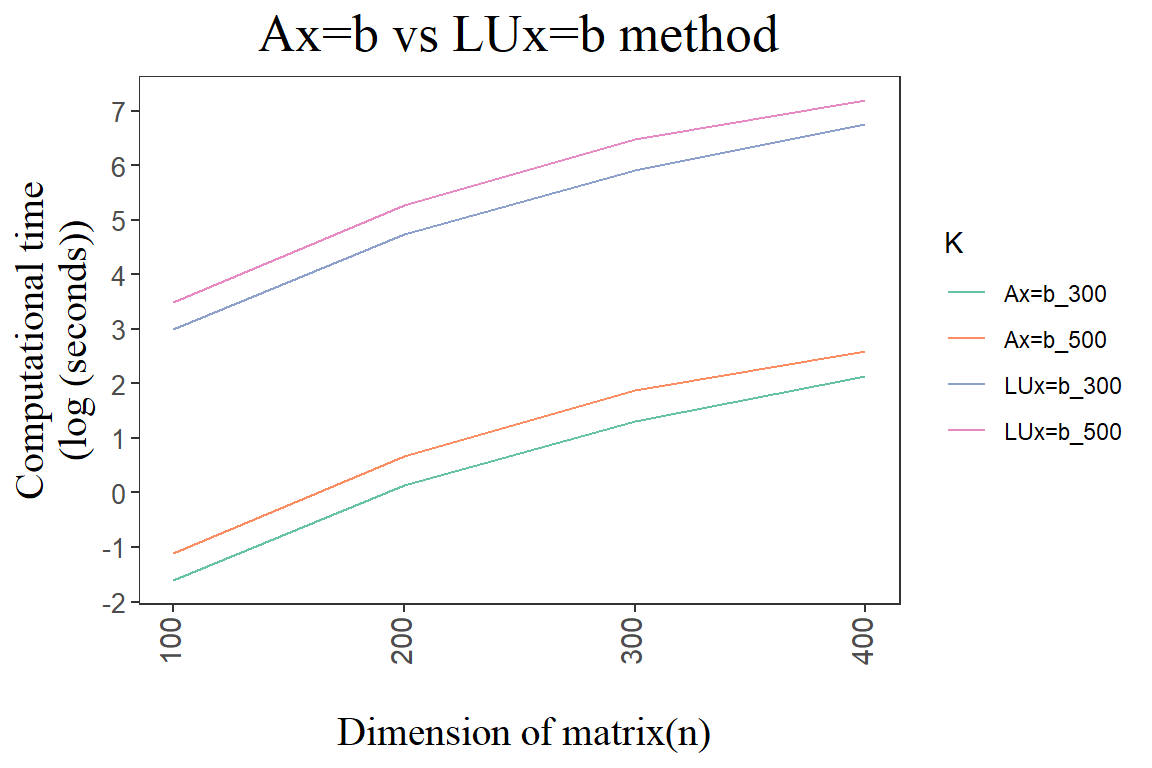
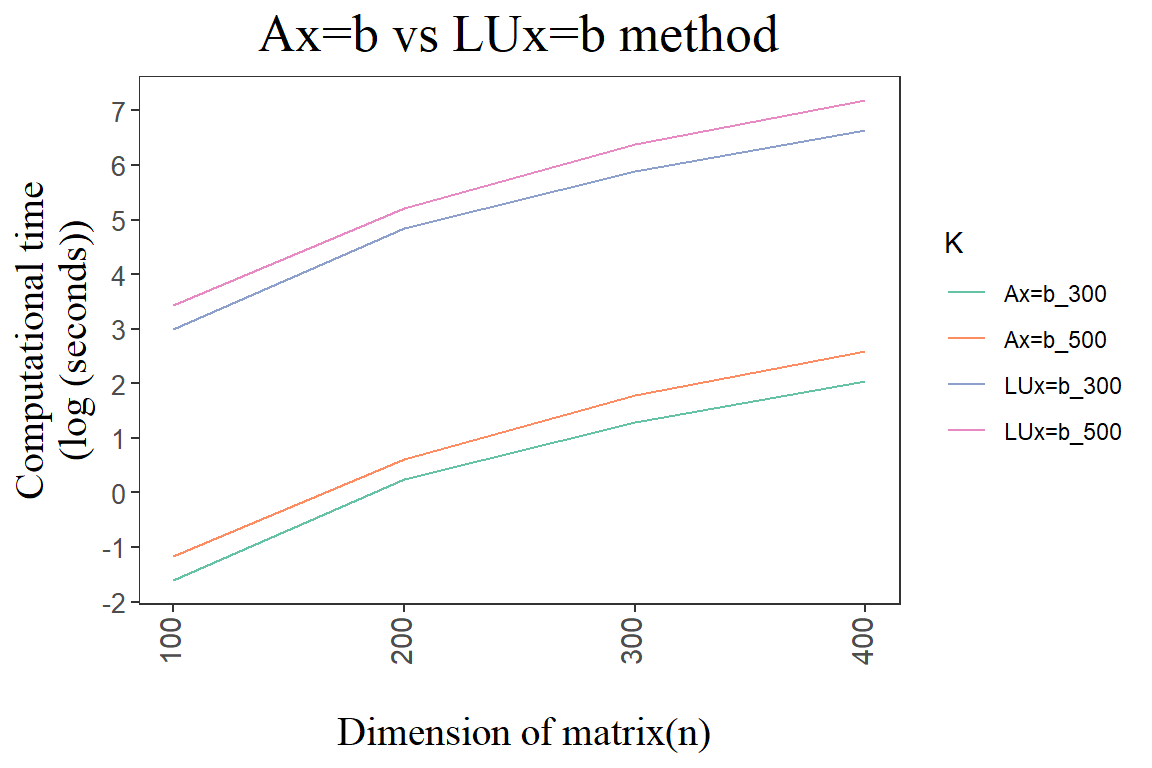
Build site.

diff --git a/docs/homework4.html b/docs/homework4.html
@@ -507,16 +507,16 @@ This reproducible <a href="http://rmarkdown.rstudio.com">R Markdown</a> analysis
 <div class="panel panel-default">
 <div class="panel-heading">
 <p class="panel-title">
-<a data-toggle="collapse" data-parent="#workflowr-checks" href="#strongRepositoryversionstrongahrefhttpsgithubcomKiseokUchicagoHomeworktreee0dc42a1d570dd5c6be27b210b7077e99a81dcc1targetblanke0dc42aa"> <span class="glyphicon glyphicon-ok text-success" aria-hidden="true"></span> <strong>Repository version:</strong> <a href="https://github.com/KiseokUchicago/Homework/tree/e0dc42a1d570dd5c6be27b210b7077e99a81dcc1" target="_blank">e0dc42a</a> </a>
+<a data-toggle="collapse" data-parent="#workflowr-checks" href="#strongRepositoryversionstrongahrefhttpsgithubcomKiseokUchicagoHomeworktreefb484e94b227436b104a6ea489dad70be1a15edftargetblankfb484e9a"> <span class="glyphicon glyphicon-ok text-success" aria-hidden="true"></span> <strong>Repository version:</strong> <a href="https://github.com/KiseokUchicago/Homework/tree/fb484e94b227436b104a6ea489dad70be1a15edf" target="_blank">fb484e9</a> </a>
 </p>
 </div>
[2 lines of base64/hex data omitted]
 <div class="panel-body">
 <p>
 Great! You are using Git for version control. Tracking code development and connecting the code version to the results is critical for reproducibility.
 </p>
 <p>
-The results in this page were generated with repository version <a href="https://github.com/KiseokUchicago/Homework/tree/e0dc42a1d570dd5c6be27b210b7077e99a81dcc1" target="_blank">e0dc42a</a>. See the <em>Past versions</em> tab to see a history of the changes made to the R Markdown and HTML files.
+The results in this page were generated with repository version <a href="https://github.com/KiseokUchicago/Homework/tree/fb484e94b227436b104a6ea489dad70be1a15edf" target="_blank">fb484e9</a>. See the <em>Past versions</em> tab to see a history of the changes made to the R Markdown and HTML files.
 </p>
 <p>
 Note that you need to be careful to ensure that all relevant files for the analysis have been committed to Git prior to generating the results (you can use <code>wflow_publish</code> or <code>wflow_git_commit</code>). workflowr only checks the R Markdown file, but you know if there are other scripts or data files that it depends on. Below is the status of the Git repository when the results were generated:
@@ -599,16 +599,16 @@ for (n in c(100,200,300,400)){
 }</code></pre>
 <pre><code>[1] 100
 0.2 sec elapsed
-0.33 sec elapsed
+0.31 sec elapsed
 [1] 200
-1.14 sec elapsed
-1.96 sec elapsed
+1.27 sec elapsed
+1.83 sec elapsed
 [1] 300
-3.72 sec elapsed
-6.5 sec elapsed
+3.61 sec elapsed
+5.96 sec elapsed
 [1] 400
-8.52 sec elapsed
-13.38 sec elapsed</code></pre>
+7.67 sec elapsed
+13.33 sec elapsed</code></pre>
 <pre class="r"><code>log.lst &lt;- tic.log(format = FALSE)
 tic.clearlog()
 
@@ -618,13 +618,13 @@ colnames(df_time) &lt;- c(&#39;n&#39;,&#39;K&#39;,&#39;comp_time&#39;)
 df_time</code></pre>
 <pre><code>    n   K comp_time
 1 100 300      0.20
-2 100 500      0.33
-3 200 300      1.14
-4 200 500      1.96
-5 300 300      3.72
-6 300 500      6.50
-7 400 300      8.52
-8 400 500     13.38</code></pre>
+2 100 500      0.31
+3 200 300      1.27
+4 200 500      1.83
+5 300 300      3.61
+6 300 500      5.96
+7 400 300      7.67
+8 400 500     13.33</code></pre>
 </div>
 <div id="b" class="section level3">
 <h3>(2)-(b)</h3>
@@ -667,17 +667,17 @@ for (n in c(100,200,300,400)){
     }
 }</code></pre>
 <pre><code>[1] 100
-0.48 sec elapsed
-0.85 sec elapsed
+0.64 sec elapsed
+1 sec elapsed
 [1] 200
-3.95 sec elapsed
-6.7 sec elapsed
+4.14 sec elapsed
+6.61 sec elapsed
 [1] 300
-14.02 sec elapsed
-22.59 sec elapsed
+14.22 sec elapsed
+22.27 sec elapsed
 [1] 400
-31.96 sec elapsed
-53.75 sec elapsed</code></pre>
+31.86 sec elapsed
+53.13 sec elapsed</code></pre>
 <pre class="r"><code>log.lst &lt;- tic.log(format = FALSE)
 tic.clearlog()
 
@@ -686,27 +686,27 @@ df_time2$comp_time &lt;- timings
 colnames(df_time2) &lt;- c(&#39;n&#39;,&#39;K&#39;,&#39;comp_time&#39;)
 df_time2</code></pre>
 <pre><code>    n K comp_time
-1 100 3      0.48
-2 100 5      0.85
-3 200 3      3.95
-4 200 5      6.70
-5 300 3     14.02
-6 300 5     22.59
-7 400 3     31.96
-8 400 5     53.75</code></pre>
+1 100 3      0.64
+2 100 5      1.00
+3 200 3      4.14
+4 200 5      6.61
+5 300 3     14.22
+6 300 5     22.27
+7 400 3     31.86
+8 400 5     53.13</code></pre>
 <pre class="r"><code># estimate K=300, 500 by multiplying by 100 to the time K=3, K=5
 df_time2$K &lt;- df_time2$K * 100
 df_time2$comp_time &lt;- df_time$comp_time * 100
 df_time2</code></pre>
 <pre><code>    n   K comp_time
 1 100 300        20
-2 100 500        33
-3 200 300       114
-4 200 500       196
-5 300 300       372
-6 300 500       650
-7 400 300       852
-8 400 500      1338</code></pre>
+2 100 500        31
+3 200 300       127
+4 200 500       183
+5 300 300       361
+6 300 500       596
+7 400 300       767
+8 400 500      1333</code></pre>
 </div>
 <div id="c" class="section level3">
 <h3>(2)-(c)</h3>
@@ -741,7 +741,182 @@ p1</code></pre>
 <div class="alert alert-warning">
 <strong>Warning!</strong> The custom <code>fig.path</code> you set was ignored by workflowr.
 </div>
+<p>
+<button type="button" class="btn btn-default btn-xs btn-workflowr btn-workflowr-fig" data-toggle="collapse" data-target="#fig-c-1">
+Past versions of c-1.png
+</button>
+</p>
+<div id="fig-c-1" class="collapse">
+<div class="table-responsive">
+<table class="table table-condensed table-hover">
+<thead>
+<tr>
+<th>
+Version
+</th>
+<th>
+Author
+</th>
+<th>
+Date
+</th>
+</tr>
+</thead>
+<tbody>
+<tr>
+<td>
+<a href="https://github.com/KiseokUchicago/Homework/blob/0ddb7f6f0c7f44a01faf8436f9a08946e58706bf/docs/figure/homework4.Rmd/c-1.png" target="_blank">0ddb7f6</a>
+</td>
+<td>
+KiseokUchicago
+</td>
+<td>
+2020-11-01
+</td>
+</tr>
+</tbody>
+</table>
+</div>
+</div>
 <p>When you compare the method (a) Ax=b and (b) LUx=b, we can see from the graph that Ax=b method is more than 10,000~100,000 times faster than LU factorization method in all n(100, 200, 300, 400). Therefore, LU decomposition method is practically inefficient compared to the basic method solve() in R. However, there is a possibility that solve() method might be using a more efficient factorization or decomposition method than LU factorization. Also method (b) needs to solve two equations: Lc=b and Ux=c, which could have contributed to longer length of time. K=300 and K=500 does not differ much (less than 10x) in the computational time.</p>
+</div>
+<div id="section-1" class="section level3">
+<h3>(3)</h3>
+<p>(Condition number/Sensitivity of linear systems) Consider a linear system Ax = b, where A is invertible and b is nonzero. Let delta x and delta b denote errors or perturbations in x and b: A(x+delta x) = b+delta b.</p>
+</div>
+<div id="a-1" class="section level3">
+<h3>(3)-(a)</h3>
+<p>Derived by hand in the written assingment.</p>
+</div>
+<div id="b-1" class="section level3">
+<h3>(3)-(b)</h3>
+<ol style="list-style-type: lower-roman">
+<li></li>
+</ol>
+<pre class="r"><code>A = matrix( c(10000,9999,9999,9998), nrow=2, ncol=2)
+A</code></pre>
+<pre><code>      [,1] [,2]
+[1,] 10000 9999
+[2,]  9999 9998</code></pre>
+<pre class="r"><code>b &lt;- c(19999, 19997)
+x &lt;- solve(A,b)
+x</code></pre>
+<pre><code>[1] 1 1</code></pre>
+<pre class="r"><code>print(paste0(&#39;Solution x is &#39;,error))</code></pre>
+<pre><code>Error in paste0(&quot;Solution x is &quot;, error): 객체 &#39;error&#39;를 찾을 수 없습니다</code></pre>
+<ol start="2" style="list-style-type: lower-roman">
+<li></li>
+</ol>
+<pre class="r"><code>b_hat &lt;- c(19998.999, 19997.001)
+x_hat &lt;- solve(A,b_hat)
+x_hat</code></pre>
+<pre><code>[1]  20.997 -18.999</code></pre>
+<pre class="r"><code>euc_norm &lt;- function(x) sqrt(sum(x^2))
+error &lt;- euc_norm(x_hat-x)/euc_norm(x)
+error</code></pre>
+<pre><code>[1] 19.998</code></pre>
+<pre class="r"><code>print(paste0(&#39;Relative error is &#39;,error))</code></pre>
+<pre><code>[1] &quot;Relative error is 19.998000162875&quot;</code></pre>
+<ol start="3" style="list-style-type: lower-roman">
+<li></li>
+</ol>
+<pre class="r"><code>b_hat2 &lt;- c(19998.99, 19997.01)
+x_hat2 &lt;- solve(A,b_hat2)
+x_hat2</code></pre>
+<pre><code>[1]  200.97 -198.99</code></pre>
+<pre class="r"><code>euc_norm &lt;- function(x) sqrt(sum(x^2))
+error &lt;- euc_norm(x_hat2-x)/euc_norm(x)
+error</code></pre>
+<pre><code>[1] 199.98</code></pre>
+<pre class="r"><code>print(paste0(&#39;Relative error is &#39;,error))</code></pre>
+<pre><code>[1] &quot;Relative error is 199.98000162875&quot;</code></pre>
+<ol start="4" style="list-style-type: lower-roman">
+<li></li>
+</ol>
+<pre class="r"><code># install.packages(&#39;matlib&#39;)
+library(matlib)
+
+# condition number with Euclidean norm
+kappa_euc &lt;- euc_norm(A %*% x) * euc_norm(inv(A) %*% x)
+
+# condition number using Frobenius form
+kappa_fro &lt;- sqrt(sum(A ** 2)) * sqrt(sum(inv(A) ** 2))
+kappa_fro</code></pre>
+<pre><code>[1] 399920009</code></pre>
+<pre class="r"><code>print(paste0(&#39;Kappa value is &#39;,kappa_fro))</code></pre>
+<pre><code>[1] &quot;Kappa value is 399920008.828417&quot;</code></pre>
+<p>Kappa value from Frobenius form with matrix A is almost 4x10^8. In part (a), the Kappa value was n (if the matrix is 2x2 matrix, then 2). Therefore, compared to the kappa value of matrix in part (b) is 2x10^8 times bigger than that of diagonal matrix in part (a). The larger the kappa value, the more unstable the linear system. Thus, it could be concluded that diagonal matrix is much more stable than the matrix with huge values in a ij (i != j) indices.</p>
+</div>
+<div id="c-1" class="section level3">
+<h3>(3)-(c)</h3>
+<p>Refer to the exercise in the HW3 30750 supplement, on Hilbert matrices, which occur naturally in approximations of functions by polynomials. Compute kappa F (A) of the n x n Hilbert matrix for n = 4 and n = 20 (you may use a built-in operation, but if so, try to write your own code to do the computation by hand as well { include your work on this in your submission). Use Matlab, Octave, R, or Julia for the computation. Comment on the sensitivity of the matrices in comparison to each other. (Note: You may use n = 4 and n = 12 if singularity causes no-output for larger n.)</p>
+<pre class="r"><code>library(fractional)
+
+for (n in c(4,20)){
+  H &lt;- matrix(nrow=n, ncol=n) %&gt;% fractional
+  for (i in 1:dim(H)[1]){
+    for (j in 1:dim(H)[2]){
+      H[i,j]=(i+j-1)^(-1)
+    }
+  }
+  print(H)
+  H_inverse = solve(H, tol = NULL)
+  kappa_fro &lt;- sqrt(sum(H ** 2)) * sqrt(sum(H_inverse ** 2))
+  print(paste0(&#39;For Hilbert matrix of &#39;,n,&#39;x&#39;,n))
+  print(paste0(&#39;kappa F(H)=&#39;,kappa_fro))
+}</code></pre>
+<pre><code>     [,1] [,2] [,3] [,4]
+[1,]   1  1/2  1/3  1/4 
+[2,] 1/2  1/3  1/4  1/5 
+[3,] 1/3  1/4  1/5  1/6 
+[4,] 1/4  1/5  1/6  1/7 
+[1] &quot;For Hilbert matrix of 4x4&quot;
+[1] &quot;kappa F(H)=15613.7935596424&quot;
+      [,1] [,2] [,3] [,4] [,5] [,6] [,7] [,8] [,9] [,10] [,11] [,12] [,13]
+ [1,]    1  1/2  1/3  1/4  1/5  1/6  1/7  1/8  1/9 1/10  1/11  1/12  1/13 
+ [2,]  1/2  1/3  1/4  1/5  1/6  1/7  1/8  1/9 1/10 1/11  1/12  1/13  1/14 
+ [3,]  1/3  1/4  1/5  1/6  1/7  1/8  1/9 1/10 1/11 1/12  1/13  1/14  1/15 
+ [4,]  1/4  1/5  1/6  1/7  1/8  1/9 1/10 1/11 1/12 1/13  1/14  1/15  1/16 
+ [5,]  1/5  1/6  1/7  1/8  1/9 1/10 1/11 1/12 1/13 1/14  1/15  1/16  1/17 
+ [6,]  1/6  1/7  1/8  1/9 1/10 1/11 1/12 1/13 1/14 1/15  1/16  1/17  1/18 
+ [7,]  1/7  1/8  1/9 1/10 1/11 1/12 1/13 1/14 1/15 1/16  1/17  1/18  1/19 
+ [8,]  1/8  1/9 1/10 1/11 1/12 1/13 1/14 1/15 1/16 1/17  1/18  1/19  1/20 
+ [9,]  1/9 1/10 1/11 1/12 1/13 1/14 1/15 1/16 1/17 1/18  1/19  1/20  1/21 
+[10,] 1/10 1/11 1/12 1/13 1/14 1/15 1/16 1/17 1/18 1/19  1/20  1/21  1/22 
+[11,] 1/11 1/12 1/13 1/14 1/15 1/16 1/17 1/18 1/19 1/20  1/21  1/22  1/23 
+[12,] 1/12 1/13 1/14 1/15 1/16 1/17 1/18 1/19 1/20 1/21  1/22  1/23  1/24 
+[13,] 1/13 1/14 1/15 1/16 1/17 1/18 1/19 1/20 1/21 1/22  1/23  1/24  1/25 
+[14,] 1/14 1/15 1/16 1/17 1/18 1/19 1/20 1/21 1/22 1/23  1/24  1/25  1/26 
+[15,] 1/15 1/16 1/17 1/18 1/19 1/20 1/21 1/22 1/23 1/24  1/25  1/26  1/27 
+[16,] 1/16 1/17 1/18 1/19 1/20 1/21 1/22 1/23 1/24 1/25  1/26  1/27  1/28 
+[17,] 1/17 1/18 1/19 1/20 1/21 1/22 1/23 1/24 1/25 1/26  1/27  1/28  1/29 
+[18,] 1/18 1/19 1/20 1/21 1/22 1/23 1/24 1/25 1/26 1/27  1/28  1/29  1/30 
+[19,] 1/19 1/20 1/21 1/22 1/23 1/24 1/25 1/26 1/27 1/28  1/29  1/30  1/31 
+[20,] 1/20 1/21 1/22 1/23 1/24 1/25 1/26 1/27 1/28 1/29  1/30  1/31  1/32 
+      [,14] [,15] [,16] [,17] [,18] [,19] [,20]
+ [1,] 1/14  1/15  1/16  1/17  1/18  1/19  1/20 
+ [2,] 1/15  1/16  1/17  1/18  1/19  1/20  1/21 
+ [3,] 1/16  1/17  1/18  1/19  1/20  1/21  1/22 
+ [4,] 1/17  1/18  1/19  1/20  1/21  1/22  1/23 
+ [5,] 1/18  1/19  1/20  1/21  1/22  1/23  1/24 
+ [6,] 1/19  1/20  1/21  1/22  1/23  1/24  1/25 
+ [7,] 1/20  1/21  1/22  1/23  1/24  1/25  1/26 
+ [8,] 1/21  1/22  1/23  1/24  1/25  1/26  1/27 
+ [9,] 1/22  1/23  1/24  1/25  1/26  1/27  1/28 
+[10,] 1/23  1/24  1/25  1/26  1/27  1/28  1/29 
+[11,] 1/24  1/25  1/26  1/27  1/28  1/29  1/30 
+[12,] 1/25  1/26  1/27  1/28  1/29  1/30  1/31 
+[13,] 1/26  1/27  1/28  1/29  1/30  1/31  1/32 
+[14,] 1/27  1/28  1/29  1/30  1/31  1/32  1/33 
+[15,] 1/28  1/29  1/30  1/31  1/32  1/33  1/34 
+[16,] 1/29  1/30  1/31  1/32  1/33  1/34  1/35 
+[17,] 1/30  1/31  1/32  1/33  1/34  1/35  1/36 
+[18,] 1/31  1/32  1/33  1/34  1/35  1/36  1/37 
+[19,] 1/32  1/33  1/34  1/35  1/36  1/37  1/38 
+[20,] 1/33  1/34  1/35  1/36  1/37  1/38  1/39 
+[1] &quot;For Hilbert matrix of 20x20&quot;
+[1] &quot;kappa F(H)=1962058291245698816&quot;</code></pre>
+<p>Sensitivity grows exponentially as the Hilbert matrix have bigger dimensions. kappa F(H)=1962058291245698816, when 20x20 matrix kappa F(H)=15613.7935596424, when 4x4 matrix This is a difference of factor of 1.256682e+14. Therefore, we could conclude that matrix with smaller dimensions is much more stable to perturbations.</p>
 <br>
 <p>
 <button type="button" class="btn btn-default btn-workflowr btn-workflowr-sessioninfo" data-toggle="collapse" data-target="#workflowr-sessioninfo" style="display: block;">
@@ -765,21 +940,34 @@ attached base packages:
 [1] stats     graphics  grDevices utils     datasets  methods   base     
 
 other attached packages:
-[1] ggplot2_3.3.2    matrixcalc_1.0-3 dplyr_1.0.1      tictoc_1.0.1    
-[5] workflowr_1.6.2 
+[1] fractional_0.1.3 matlib_0.9.4     ggplot2_3.3.2    matrixcalc_1.0-3
+[5] dplyr_1.0.1      tictoc_1.0.1     workflowr_1.6.2 
 
 loaded via a namespace (and not attached):
- [1] Rcpp_1.0.5         RColorBrewer_1.1-2 pillar_1.4.6       compiler_4.0.2    
- [5] later_1.1.0.1      git2r_0.27.1       tools_4.0.2        digest_0.6.25     
- [9] evaluate_0.14      lifecycle_0.2.0    tibble_3.0.3       gtable_0.3.0      
-[13] pkgconfig_2.0.3    rlang_0.4.7        rstudioapi_0.11    yaml_2.2.1        
-[17] xfun_0.16          withr_2.3.0        stringr_1.4.0      knitr_1.30        
-[21] generics_0.0.2     fs_1.5.0           vctrs_0.3.2        rprojroot_1.3-2   
-[25] grid_4.0.2         tidyselect_1.1.0   glue_1.4.2         R6_2.4.1          
-[29] rmarkdown_2.3      farver_2.0.3       purrr_0.3.4        magrittr_1.5      
-[33] scales_1.1.1       backports_1.1.7    promises_1.1.1     ellipsis_0.3.1    
-[37] htmltools_0.5.0    colorspace_1.4-1   httpuv_1.5.4       labeling_0.3      
-[41] stringi_1.5.3      munsell_0.5.0      crayon_1.3.4      </code></pre>
+ [1] rgl_0.100.54            Rcpp_1.0.5              rprojroot_1.3-2        
+ [4] digest_0.6.25           mime_0.9                R6_2.4.1               
+ [7] cellranger_1.1.0        backports_1.1.7         evaluate_0.14          
+[10] pillar_1.4.6            rlang_0.4.7             curl_4.3               
+[13] readxl_1.3.1            rstudioapi_0.11         data.table_1.13.0      
+[16] miniUI_0.1.1.1          whisker_0.4             car_3.0-10             
+[19] rmarkdown_2.3           labeling_0.3            webshot_0.5.2          
+[22] stringr_1.4.0           foreign_0.8-80          htmlwidgets_1.5.1      
+[25] munsell_0.5.0           shiny_1.5.0             compiler_4.0.2         
+[28] httpuv_1.5.4            xfun_0.16               pkgconfig_2.0.3        
+[31] htmltools_0.5.0         tidyselect_1.1.0        tibble_3.0.3           
+[34] rio_0.5.16              crayon_1.3.4            withr_2.3.0            
+[37] later_1.1.0.1           MASS_7.3-53             grid_4.0.2             
+[40] jsonlite_1.7.0          xtable_1.8-4            gtable_0.3.0           
+[43] lifecycle_0.2.0         git2r_0.27.1            magrittr_1.5           
+[46] scales_1.1.1            zip_2.1.1               carData_3.0-4          
+[49] stringi_1.5.3           farver_2.0.3            fs_1.5.0               
+[52] promises_1.1.1          ellipsis_0.3.1          generics_0.0.2         
+[55] vctrs_0.3.2             openxlsx_4.2.2          RColorBrewer_1.1-2     
+[58] tools_4.0.2             forcats_0.5.0           manipulateWidget_0.10.1
+[61] glue_1.4.2              purrr_0.3.4             hms_0.5.3              
+[64] crosstalk_1.1.0.1       abind_1.4-5             fastmap_1.0.1          
+[67] yaml_2.2.1              colorspace_1.4-1        knitr_1.30             
+[70] haven_2.3.1            </code></pre>
 </div>
 </div>
 </div>

diff --git a/docs/index.html b/docs/index.html
@@ -367,16 +367,16 @@ This reproducible <a href="http://rmarkdown.rstudio.com">R Markdown</a> analysis
 <div class="panel panel-default">
 <div class="panel-heading">
 <p class="panel-title">
-<a data-toggle="collapse" data-parent="#workflowr-checks" href="#strongRepositoryversionstrongahrefhttpsgithubcomKiseokUchicagoHomeworktreee0dc42a1d570dd5c6be27b210b7077e99a81dcc1targetblanke0dc42aa"> <span class="glyphicon glyphicon-ok text-success" aria-hidden="true"></span> <strong>Repository version:</strong> <a href="https://github.com/KiseokUchicago/Homework/tree/e0dc42a1d570dd5c6be27b210b7077e99a81dcc1" target="_blank">e0dc42a</a> </a>
+<a data-toggle="collapse" data-parent="#workflowr-checks" href="#strongRepositoryversionstrongahrefhttpsgithubcomKiseokUchicagoHomeworktreefb484e94b227436b104a6ea489dad70be1a15edftargetblankfb484e9a"> <span class="glyphicon glyphicon-ok text-success" aria-hidden="true"></span> <strong>Repository version:</strong> <a href="https://github.com/KiseokUchicago/Homework/tree/fb484e94b227436b104a6ea489dad70be1a15edf" target="_blank">fb484e9</a> </a>
 </p>
 </div>
[2 lines of base64/hex data omitted]
 <div class="panel-body">
 <p>
 Great! You are using Git for version control. Tracking code development and connecting the code version to the results is critical for reproducibility.
 </p>
 <p>
-The results in this page were generated with repository version <a href="https://github.com/KiseokUchicago/Homework/tree/e0dc42a1d570dd5c6be27b210b7077e99a81dcc1" target="_blank">e0dc42a</a>. See the <em>Past versions</em> tab to see a history of the changes made to the R Markdown and HTML files.
+The results in this page were generated with repository version <a href="https://github.com/KiseokUchicago/Homework/tree/fb484e94b227436b104a6ea489dad70be1a15edf" target="_blank">fb484e9</a>. See the <em>Past versions</em> tab to see a history of the changes made to the R Markdown and HTML files.
 </p>
 <p>
 Note that you need to be careful to ensure that all relevant files for the analysis have been committed to Git prior to generating the results (you can use <code>wflow_publish</code> or <code>wflow_git_commit</code>). workflowr only checks the R Markdown file, but you know if there are other scripts or data files that it depends on. Below is the status of the Git repository when the results were generated:
